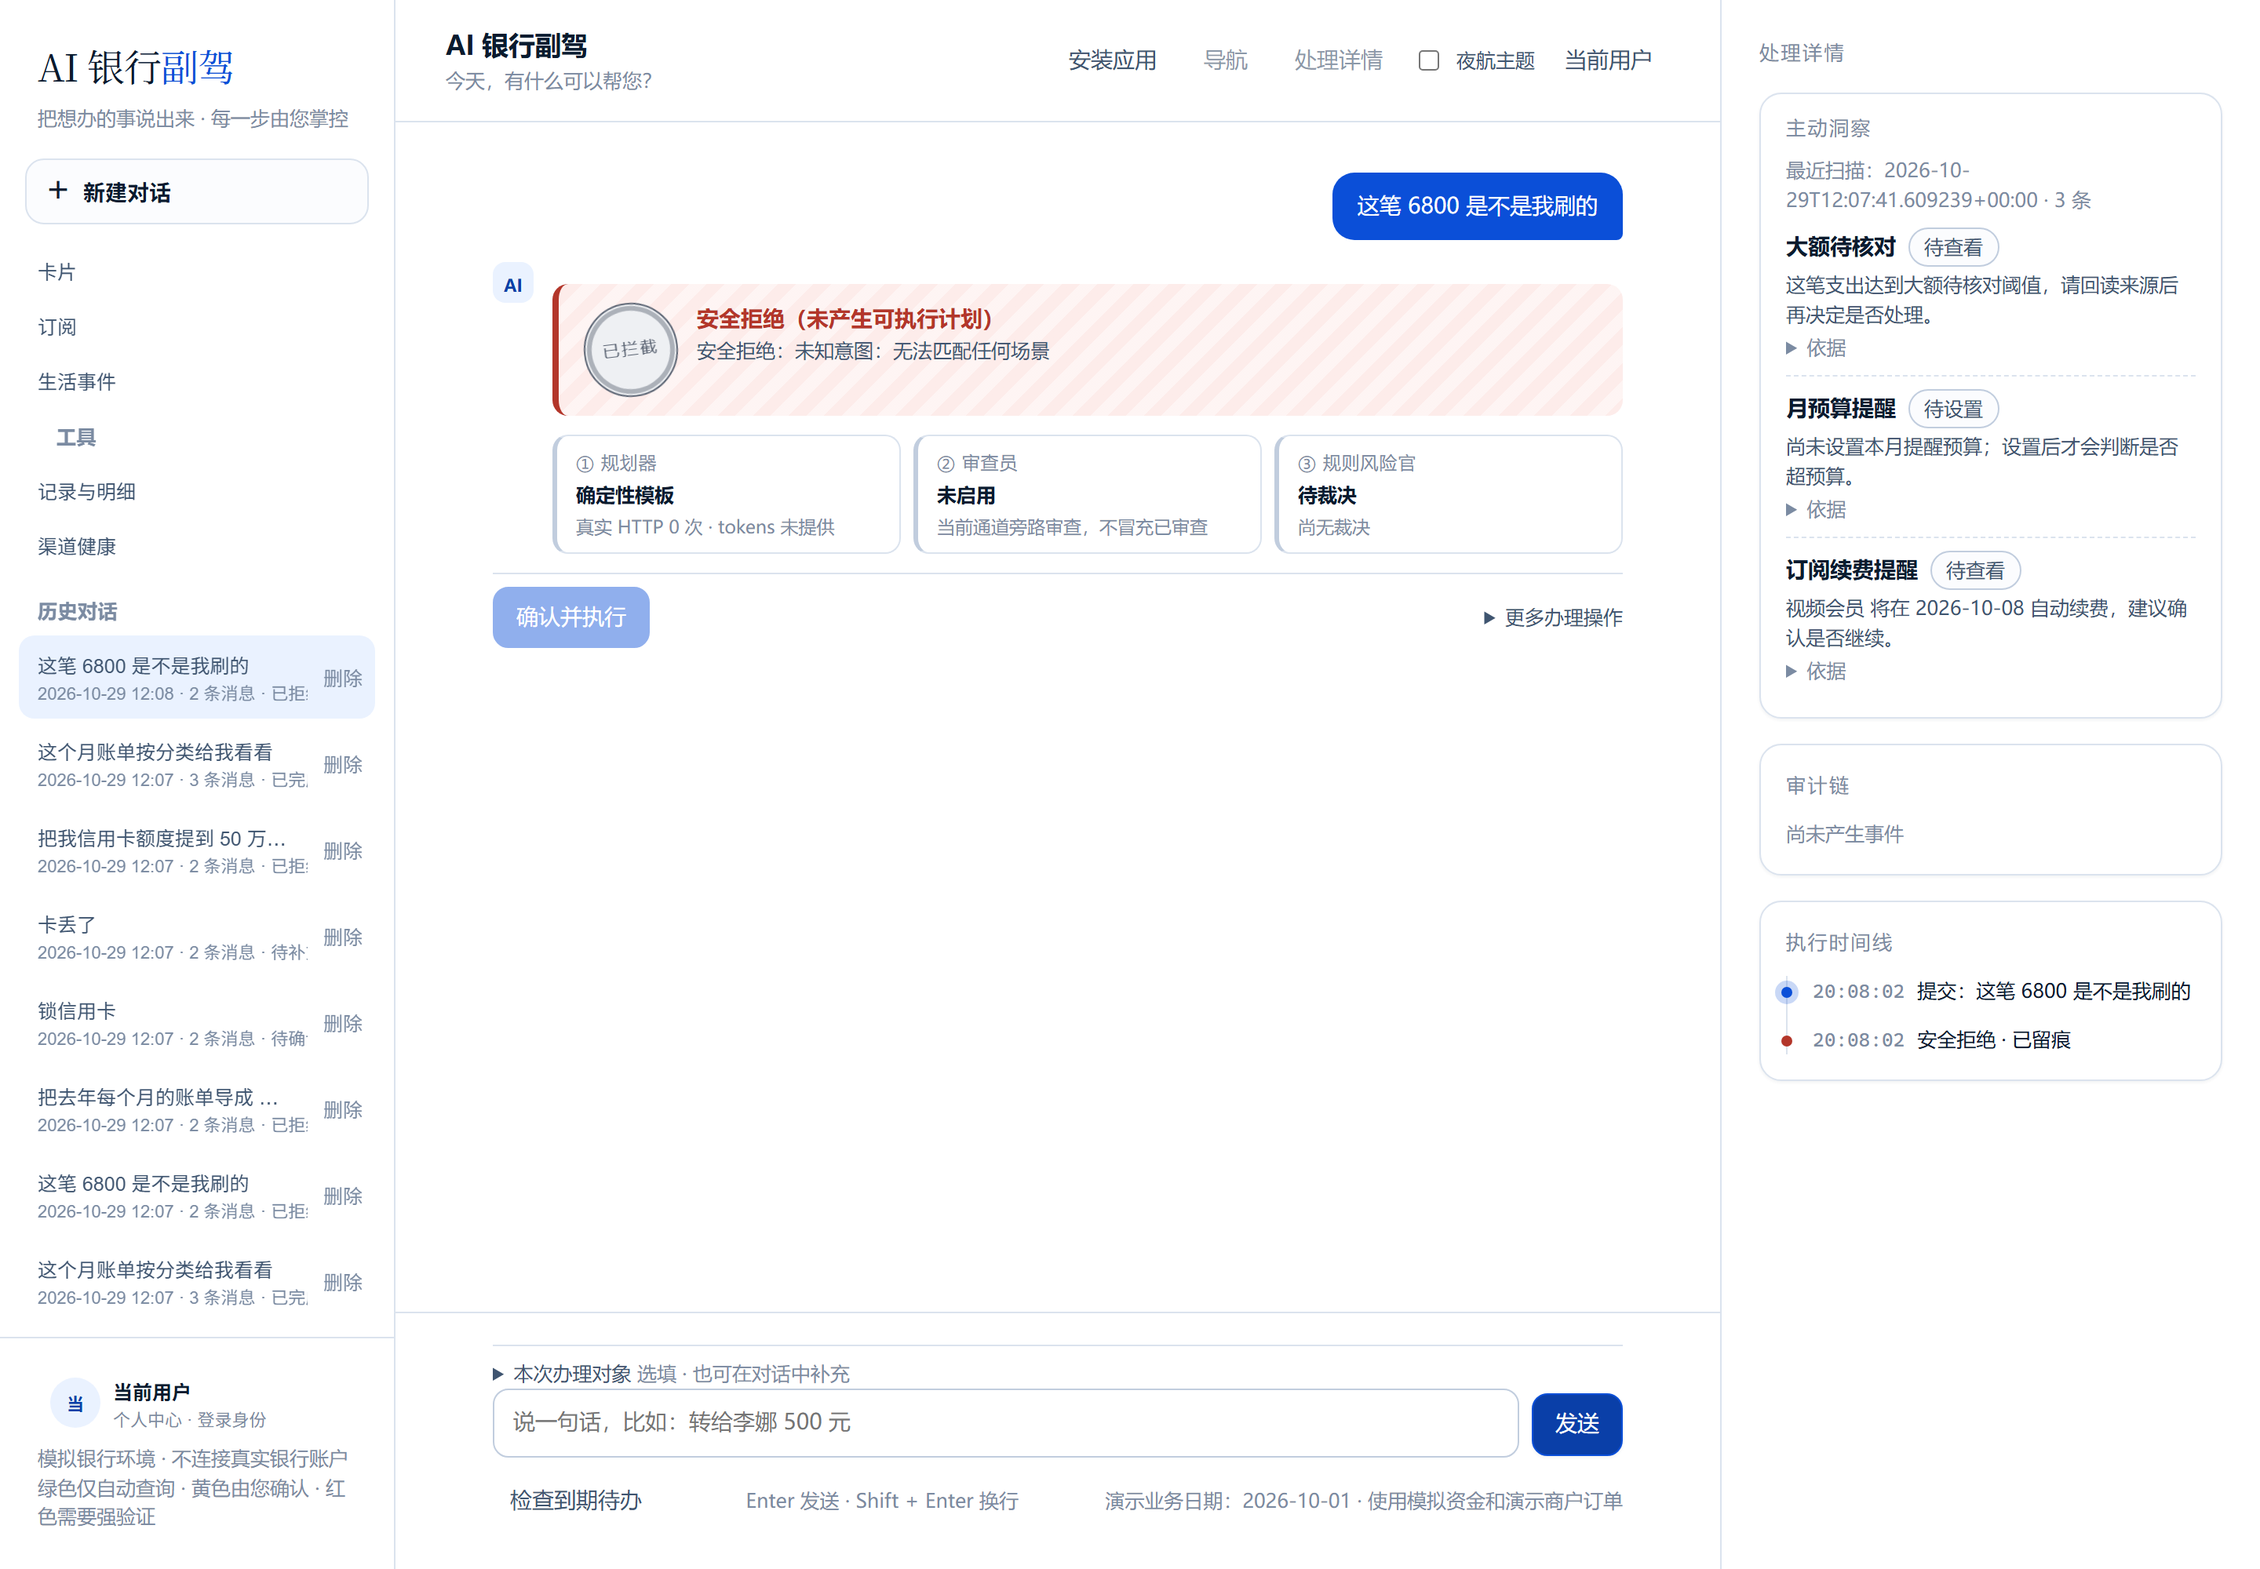
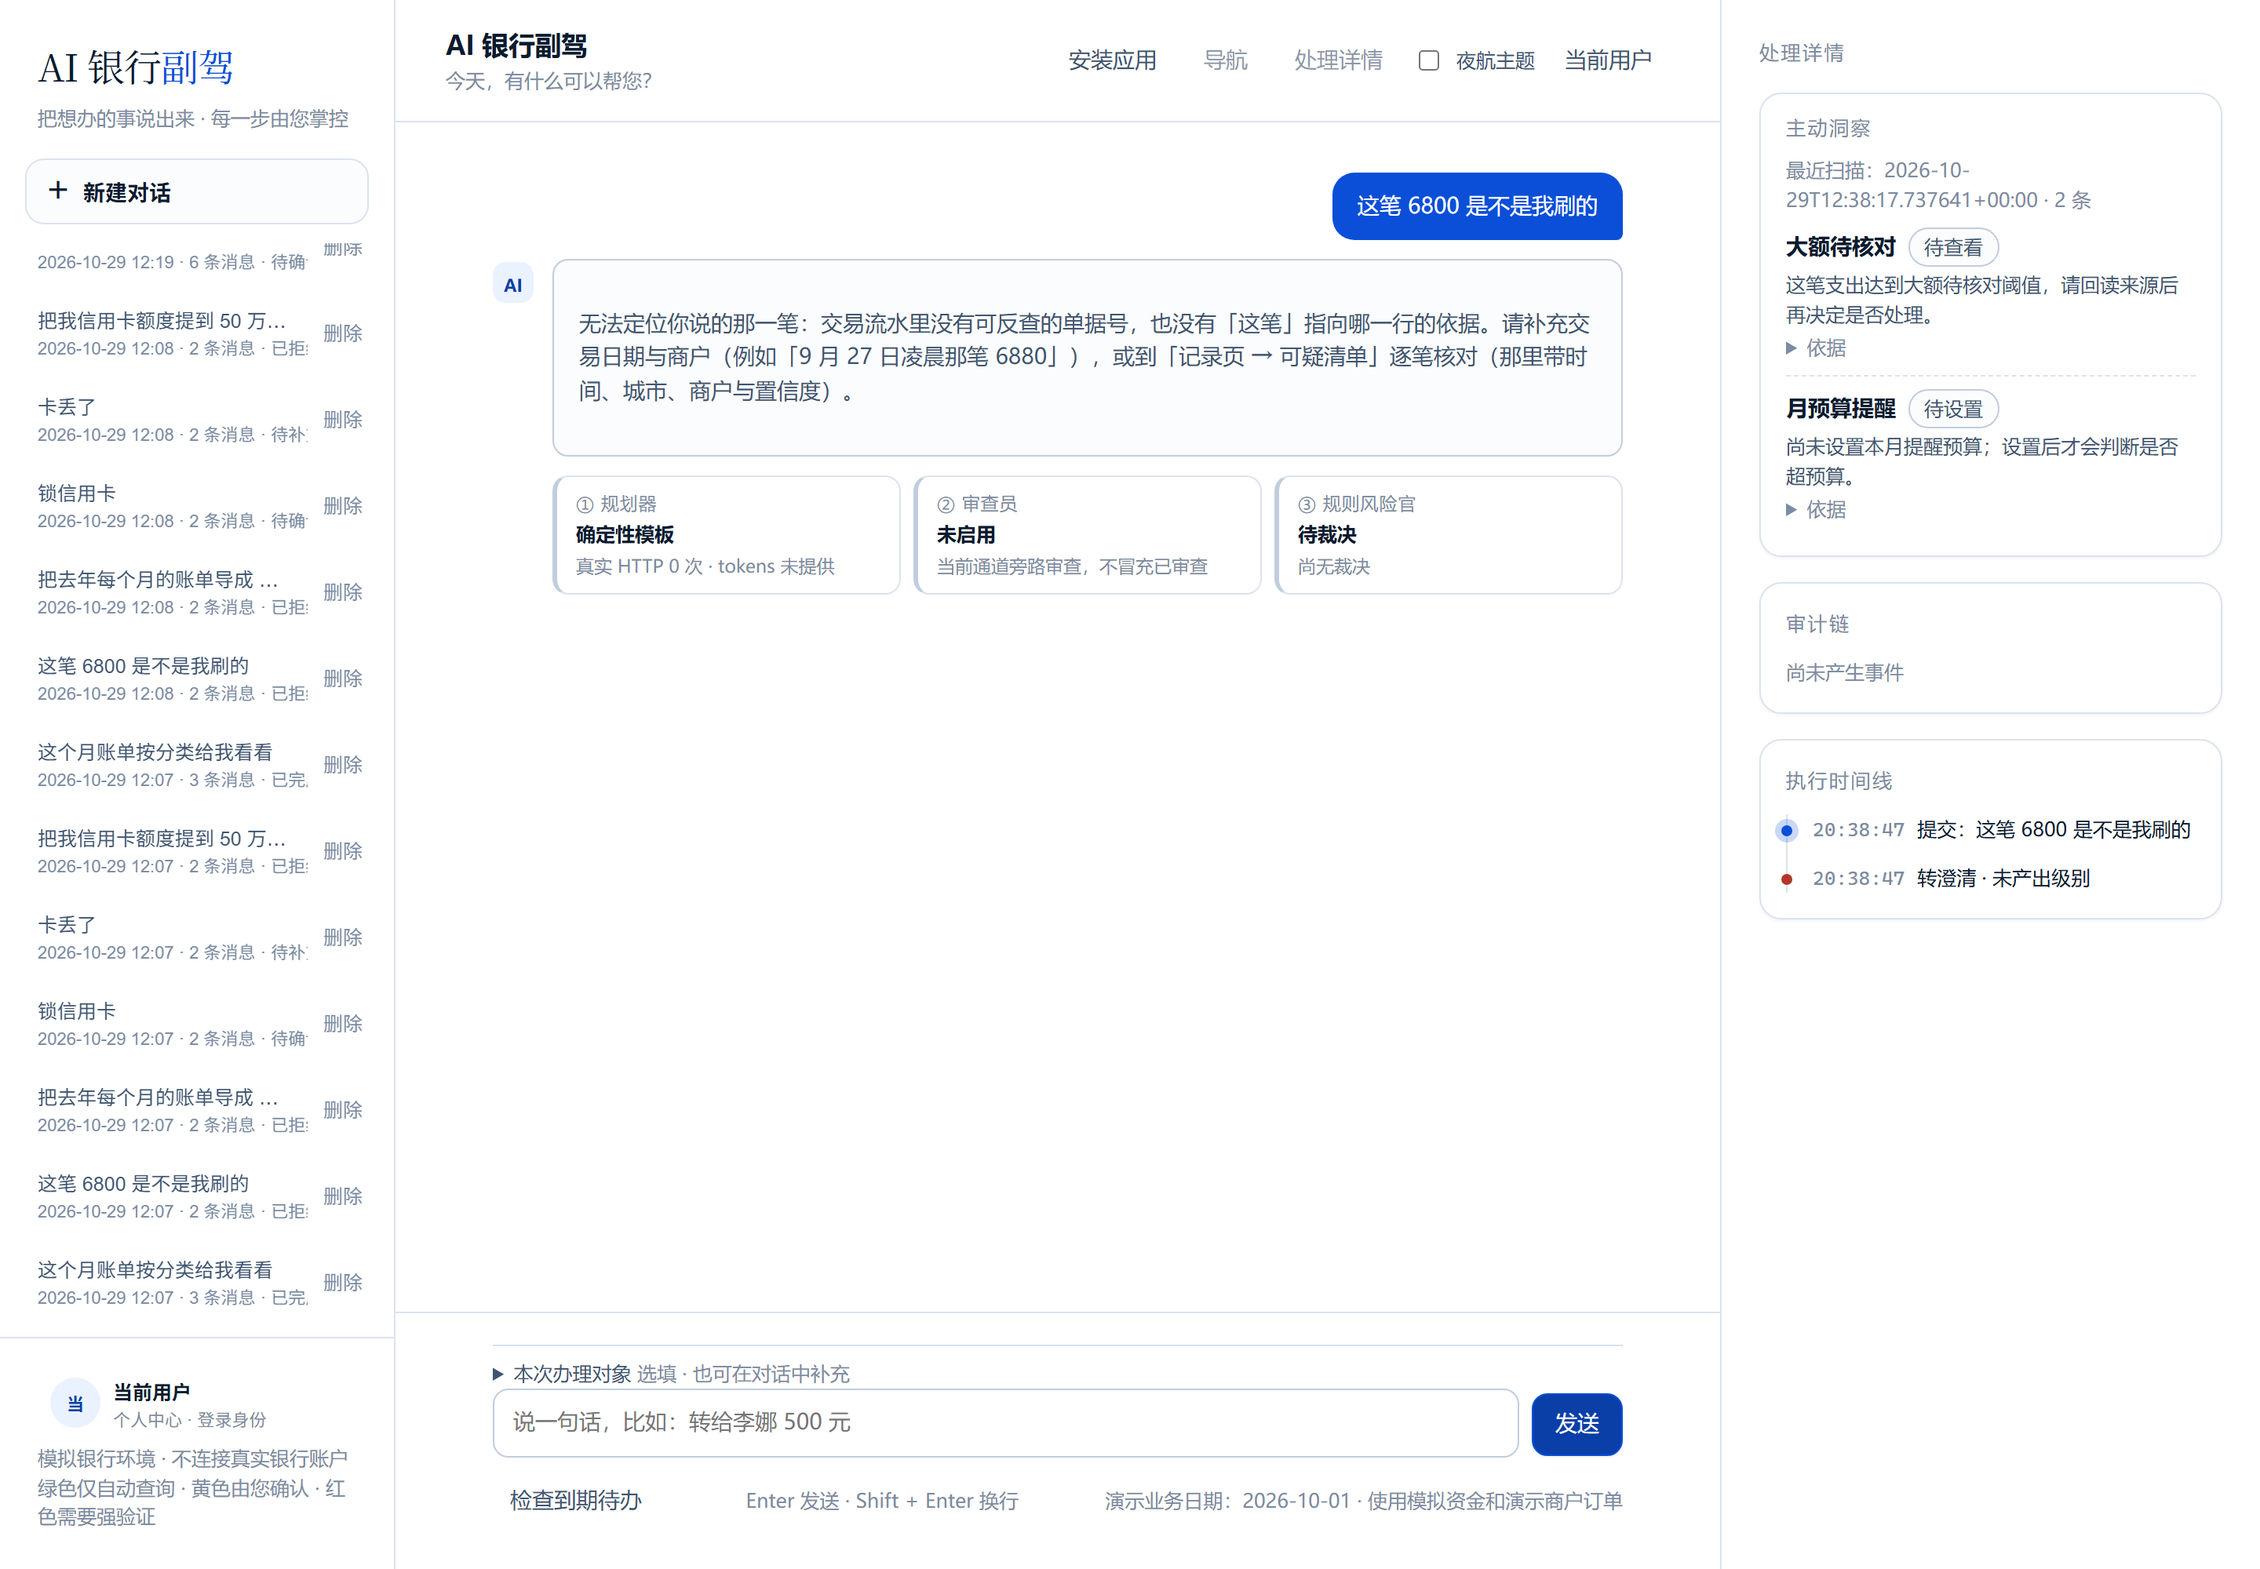
fix(bills): 「这笔 6800 是不是我刷的」转追问，不再判未知意图
原行为：这句话在模板通道没有规则命中 → 「安全拒绝：未知意图：无法匹配任何场景」，
评委看到的是系统听不懂人话；也拿不到任何可执行出口。

改为两级：
1. planning/llm.py 账单段：指代某笔消费的核实问法（这笔/那笔、是不是我刷的）归到账单域
   （bills.monthly，**不是** account.transactions——否则会先被「请明确改查本人账户」的追问拦下）；
   规则放在转账 / 订阅 / 冻结之后，「这笔转账」「取消这笔订阅」仍归各自场景。
2. scenarios/bills.py：识别到指代片段即抛 ClarificationRequired，追问「无法定位你说的那一笔」，
   给两个出口（补交易日期与商户 / 去记录页可疑清单逐笔核对），不猜是哪一笔、哪张卡。

顺带修前端：场景层追问只有一句话、没有结构化槽位表单时，原先退化成
「请补充所需信息后重新提交。」，服务端 message 被丢掉；改为直接显示服务端 prompt。

版本链：app.js?v=41 / sw.js?v=34 / shell v34。

diff --git a/src/ai_banking_copilot/web/assets/app.js b/src/ai_banking_copilot/web/assets/app.js
@@ -2637,9 +2637,13 @@ async function applySubmission(data) {
   }
   state.phase = data.state === "blocked" ? "blocked" : "clarifying";
   state.clarifications = data.clarifications || [];
+  /* 场景层追问（如「这笔 6800 是不是我刷的」）只有一句话、没有结构化槽位表单：
+     此时必须把服务端那句 prompt 原样显示出来，不能退化成「请补充所需信息后重新提交。」——
+     那句空话既没告诉用户缺什么，也和 API 返回的 message 不一致。 */
+  const clarifyPrompt = data.message || (Array.isArray(data.questions) ? data.questions[0] : "");
   state.panel = data.state === "blocked"
     ? interceptHtml("安全拒绝（未产生可执行计划）", data.message || "未知意图不猜测执行；已留痕。", false)
-    : clarifyHtml() || `<div class="takeover">请补充所需信息后重新提交。</div>`;
+    : clarifyHtml() || `<div class="takeover"><p>${esc(clarifyPrompt || "请补充所需信息后重新提交。")}</p></div>`;
   renderStage();
   timelineAdd(data.state === "blocked" ? "安全拒绝 · 已留痕" : "转澄清 · 未产出级别", "stop");
 }

diff --git a/tests/scenarios/test_bills_vague_transaction.py b/tests/scenarios/test_bills_vague_transaction.py
@@ -1,0 +1,57 @@
+"""「这笔 6800 是不是我刷的」这类指代问法：不判未知意图、也不拿大额扫描顶替，转**追问**。
+
+背景（10-28 验收记录 §5 T4 / 10-29 自测-05）：这句话原先走「未知意图：无法匹配任何场景」，
+评委看到的是系统听不懂人话。今天改成两步：
+
+1. 意图层：归到账单域（`bills.monthly`）——**不是** `account.transactions`，否则会先被
+   「账户对象未匹配」的追问拦下，问的是「请明确改查本人账户」，答不上「哪一笔」；
+2. 场景层：账单场景识别指代片段后抛 `ClarificationRequired`，追问「请补充交易日期与商户，
+   或到可疑清单逐笔核对」。
+
+同时钉住**不抢别人的话**：「这笔转账」「取消这笔订阅」仍走转账 / 订阅。
+"""
+
+from __future__ import annotations
+
+import pytest
+
+from ai_banking_copilot.gateway.facts import FactGateway
+from ai_banking_copilot.planning.llm import Intent, TemplateIntentModel
+from ai_banking_copilot.scenarios.base import ClarificationRequired
+from ai_banking_copilot.scenarios.bills import BillsHandler
+
+VAGUE = "这笔 6800 是不是我刷的"
+
+
+def _actions(utterance: str) -> list[str]:
+    return [intent.action for intent in TemplateIntentModel().propose(utterance, {}).intents]
+
+
+def test_vague_transaction_reference_goes_to_the_bills_scenario() -> None:
+    assert _actions(VAGUE) == ["bills.monthly"]
+
+
+def test_vague_transaction_reference_does_not_steal_other_domains() -> None:
+    assert _actions("这笔转账失败了怎么办") == ["transfer.create"]
+    assert _actions("取消这笔订阅") == ["subscription.cancel"]
+
+
+def test_bills_scenario_asks_which_transaction_instead_of_guessing(
+    gateway: FactGateway,
+) -> None:
+    intent = Intent(action="bills.monthly", slots={"span": VAGUE}, confidence=0.9, evidence=VAGUE)
+    with pytest.raises(ClarificationRequired) as error:
+        BillsHandler().build([intent], gateway)
+    assert "无法定位你说的那一笔" in error.value.prompt
+    assert "可疑清单" in error.value.prompt
+
+
+def test_normal_bill_request_is_not_affected(gateway: FactGateway) -> None:
+    intent = Intent(
+        action="bills.monthly",
+        slots={"span": "这个月账单按分类给我看看"},
+        confidence=0.9,
+        evidence="账单",
+    )
+    plan = BillsHandler().build([intent], gateway)
+    assert plan.nodes[0].action == "bills.monthly"

diff --git a/src/ai_banking_copilot/scenarios/bills.py b/src/ai_banking_copilot/scenarios/bills.py
@@ -9,6 +9,7 @@
 from __future__ import annotations
 
 import calendar
+import re
 from collections.abc import Callable, Mapping, Sequence
 from dataclasses import asdict
 from datetime import date
@@ -51,6 +52,7 @@ from ai_banking_copilot.policy.pep import (
     require_str,
 )
 from ai_banking_copilot.scenarios.base import (
+    ClarificationRequired,
     ScenarioHandler,
     ScenarioRefused,
     as_int,
@@ -94,6 +96,31 @@ _CAPABILITY_BOUNDARIES: tuple[tuple[tuple[str, ...], str], ...] = (
     ),
 )
 """能力边界（场景层）：不支持的问法一律明确说做不到，不拿大额扫描结果冒充答案。"""
+
+_VAGUE_TRANSACTION = re.compile(
+    r"(?:这|那)(?:一)?笔|是不是我刷的|是我刷的"
+)
+"""指代不明的「某笔消费核实」（如「这笔 6800 是不是我刷的」）。
+
+这类问法没有可定位的键：流水里既没有用户口中的单据号，也没有「这笔」指向哪一行的确证。
+**不允许**拿默认账户的当月大额扫描结果顶替答案（那会把"没找到大额"说成"不是你刷的"）。
+"""
+
+_VAGUE_TRANSACTION_PROMPT = (
+    "无法定位你说的那一笔：交易流水里没有可反查的单据号，也没有「这笔」指向哪一行的依据。"
+    "请补充交易日期与商户（例如「9 月 27 日凌晨那笔 6880」），"
+    "或到「记录页 → 可疑清单」逐笔核对（那里带时间、城市、商户与置信度）。"
+)
+"""追问话术：给两个可执行出口（补日期商户 / 去可疑清单），不替用户猜是哪一笔。"""
+
+
+def _vague_transaction(intents: Sequence[Intent]) -> bool:
+    """判断这组意图里有没有「指代某笔」的原话片段（只看 span，不用它填任何控制槽）。"""
+    for intent in intents:
+        span = intent.slots.get("span")
+        if isinstance(span, str) and _VAGUE_TRANSACTION.search(span):
+            return True
+    return False
 
 
 def large_transactions(
@@ -162,6 +189,8 @@ class BillsHandler(ScenarioHandler):
         boundary = _capability_boundary(intents)
         if boundary is not None:
             raise ScenarioRefused(boundary)
+        if _vague_transaction(intents):
+            raise ClarificationRequired("transaction", _VAGUE_TRANSACTION_PROMPT)
         balances = [intent for intent in intents if intent.action == "account.balance"]
         account_txn = [
             intent for intent in intents if intent.action == "account.transactions"

diff --git a/src/ai_banking_copilot/planning/llm.py b/src/ai_banking_copilot/planning/llm.py
@@ -228,6 +228,15 @@ _TEMPLATE_RULES: tuple[tuple[re.Pattern[str], str, str], ...] = (
         "命中『本人余额查询』模板",
     ),
     (
+        # 指代某笔消费的核实问法（「这笔 6800 是不是我刷的」）：先归到账单域
+        # （**不是**账户查询动作），由账单场景统一追问「哪一笔」——不能直接掉进
+        # 「未知意图」，那等于系统听不懂人话。
+        # 放在转账 / 订阅 / 冻结之后，避免「这笔转账」「取消这笔订阅」被这条抢走。
+        re.compile(r"(?:这|那)(?:一)?笔|是不是我刷的|是我刷的"),
+        "bills.monthly",
+        "命中『指代某笔交易核实』模板（追问问账单场景）",
+    ),
+    (
         re.compile(r"年度账单|全年账单|一年的账单|年度消费"),
         "bills.yearly",
         "命中『年度账单』模板",

diff --git a/docs/2026-10-29/答辩素材/林晓研.md b/docs/2026-10-29/答辩素材/林晓研.md
@@ -22,11 +22,11 @@
 | 类型 | 原话 | AI 回应形态（实测） | 截图 |
 |---|---|---|---|
 | 正常 | 这个月账单按分类给我看看 | 绿卡 1 步「月度账单分析：本人账户」，级别 GREEN、无额外要求、自动执行；场景页出用户画像 + 近 6 月趋势 + 分类占比 + 异常计数 + 可疑前 3 | `截图/林晓研/chat-bills-normal-web.png`、`bills-scene-web.png` |
-| 缺信息（指代不明） | 这笔 6800 是不是我刷的 | **不猜**：判为未知意图 → 安全拒绝「未知意图：无法匹配任何场景」，不编是哪一笔、哪张卡 | `截图/林晓研/chat-bills-missing-web.png` |
+| 缺信息（指代不明） | 这笔 6800 是不是我刷的 | 追问「无法定位你说的那一笔：交易流水里没有可反查的单据号……请补充交易日期与商户（例如「9 月 27 日凌晨那笔 6880」），或到「记录页 → 可疑清单」逐笔核对」；**不猜**是哪一笔、哪张卡 | `截图/林晓研/chat-bills-missing-web.png` |
 | 该拒绝（超范围） | 把去年每个月的账单导成 Excel 发我邮箱 | 安全拒绝「暂不支持导出 Excel 或发送邮件：当前只提供页面账单分析与记录页查询」 | `截图/林晓研/chat-bills-refuse-web.png` |
 
-> 口径说明（面试会被追问）：第 2 条现在是**拒绝**而不是追问。项目口径是「宁可拒绝也不猜」，
-> 但它确实是体验缺口（应回「请指明账户与交易」）——已登记为 P2，见 §6 自测-05，归属 04 模板规则（尹辰复核）。
+> 口径说明：第 2 条 10-29 前是「未知意图：无法匹配任何场景」（系统听不懂人话），现在归到账单域并转**追问**，
+> 给两个可执行出口（补日期商户 / 去可疑清单），仍不替用户猜是哪一笔（见 §6 自测-05、自测-06）。
 > 第 1 条另外补跑过「这个月钱花哪了」「查一下账单」「看看我的账单」，均为绿卡 1 步（`pytest tests/scenarios/test_bills_phrasings.py -q`）。
 
 ### 1.2 一条真实边界
@@ -144,12 +144,18 @@
 ```
 
 ```text
-编号：自测-05（未修，已登记 P2）
-改了什么：无。现象：「这笔 6800 是不是我刷的」判为未知意图 → 安全拒绝。应回「请指明账户与交易」的追问。
-复测步骤：对话说该句 → 已拦截「未知意图：无法匹配任何场景」。归属：04 模板规则（尹辰复核），不擅自改别人的段
+编号：自测-05
+改了什么：planning/llm.py 账单段 + scenarios/bills.py —— 「这笔 6800 是不是我刷的」原判「未知意图」，现归到账单域并由场景层抛 ClarificationRequired，追问「哪一笔」并给两个出口（补日期商户 / 去可疑清单）
+复测步骤：对话说「这笔 6800 是不是我刷的」→ 追问该句；pytest tests/scenarios/test_bills_vague_transaction.py -q（含「这笔转账」「取消这笔订阅」不被抢的三条反例）
 ```
 
-> 组件版本链已按 §3.3 抬到 `app.js?v=40` / `sw.js?v=33` / `shell v33`（本次改了 `app.js`）；
+```text
+编号：自测-06
+改了什么：web/assets/app.js —— 场景层追问只有一句话、没有结构化表单时，原先退化成「请补充所需信息后重新提交。」（服务端 message 被丢掉）；改为直接显示服务端 prompt
+复测步骤：对话说「这笔 6800 是不是我刷的」→ 计划区出现完整追问原话；scripts/check_served_page.py 新增「场景层追问显示服务端原话」断言
+```
+
+> 组件版本链已按 §3.3 抬到 `app.js?v=41` / `sw.js?v=34` / `shell v34`（本次两次改了 `app.js`）；
 > 截图在重置演示库（`python scripts/reset_demo.py`）后重拍，两次重置结果逐字节等价。
 
 ---
